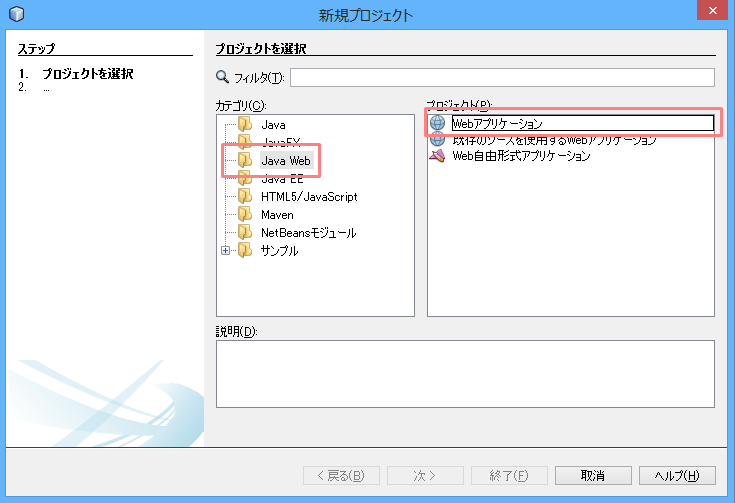
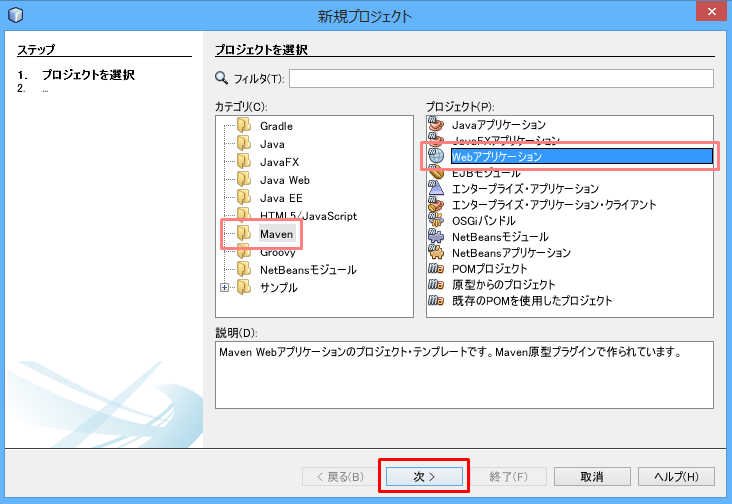
Update How to Create New Java Web Project with NetBeans
From (Plane) Java Web Project to Java Web Project with Maven

diff --git a/docs/forDevelopers/How_to_Setup_Development_Environment_Netbeans.md b/docs/forDevelopers/How_to_Setup_Development_Environment_Netbeans.md
@@ -132,17 +132,20 @@ https://netbeans.org/downloads/
 
 参考: [Getting Started with Contexts and Dependency Injection and JSF 2.x - NetBeans IDE Tutorial](https://netbeans.org/kb/docs/javaee/cdi-intro.html)
 
-新しく Java Web アプリケーションを作成してみます。
+新しく Java Web アプリケーション (Maven) を作成ます。
 
 1. メニューバーの「ファイル」から「新規プロジェクト...」を選択
-2. カテゴリ「Java Web」から「Webアプリケーション」を選択して次
+2. カテゴリ「Maven」から「Webアプリケーション」を選択して次
 
   ![NetBeans New Project Select Project Template](./images/NetBeans_NewProject_SelectTemplate.png)
 
-3. プロジェクト名とプロジェクトの場所を入力して次
+3. プロジェクト名など、以下のように入力して次
 
-  <dt>プロジェクト名</dt><dd>SampleWebApplication (適当)</dd>
+  <dt>プロジェクト名</dt><dd>TicketsManager</dd>
   <dt>プロジェクトの場所</dt><dd>C:\repos\OedoDevelopsersClub (適当)</dd>
+  <dt>グループID</dt><dd>net.oekora</dd>
+  <dt>バージョン</dt><dd>0.1</dd>
+  <dt>パッケージ</dt><dd>(なし)</dd>
 
   ![NetBeans New Web Project Name and Location](./images/NetBeans_NewProject_Name_Location.png)
 
@@ -153,17 +156,11 @@ https://netbeans.org/downloads/
 
   ![NetBeans New Web Project Server and Configuration](./images/NetBeans_NewProject_Server_Configuration.png)
 
-5. フレームワークは JavaServer Faces を選択し、デフォルトの構成のまま、終了
-
-  * JPA の実装としては GlassFish サーバで EclipseLink がデフォルトで提供されるため、Hibernate は不要
-
-  ![NetBeans New Web Project Framework](./images/NetBeans_NewProject_Framework.png)
-
-6. プロジェクトの作成が完了したら、ツールバーの再生マークのボタンをクリックし、サーバ(GlassFish Server)を起動させる
+5. プロジェクトの作成が完了したら、メニューバーの「デバッグ」から「Project(TicketsManager)をデバッグ」を選択し、サーバ(GlassFish Server)を起動させる
 
   ![NetBeans New Web Project Server Running.png](./images/NetBeans_NewProject_Server_Running.png)
 
-7. サーバの起動が完了したら、自動で既定のブラウザが起動し、index ページが表示される
+6. サーバの起動が完了したら、自動で既定のブラウザが起動し、index ページが表示される
 
   ![NetBeans New Web Project Server Running Result](./images/NetBeans_NewProject_Server_Running_Result.png)
 
